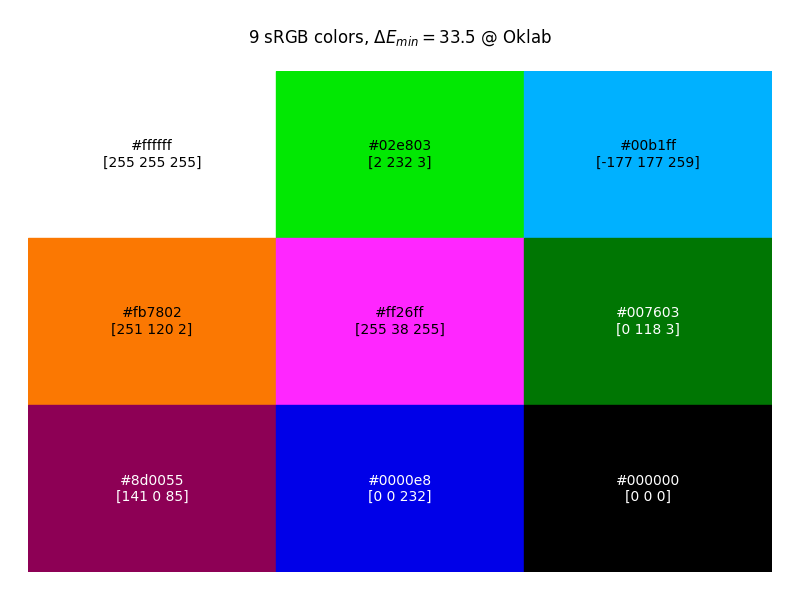
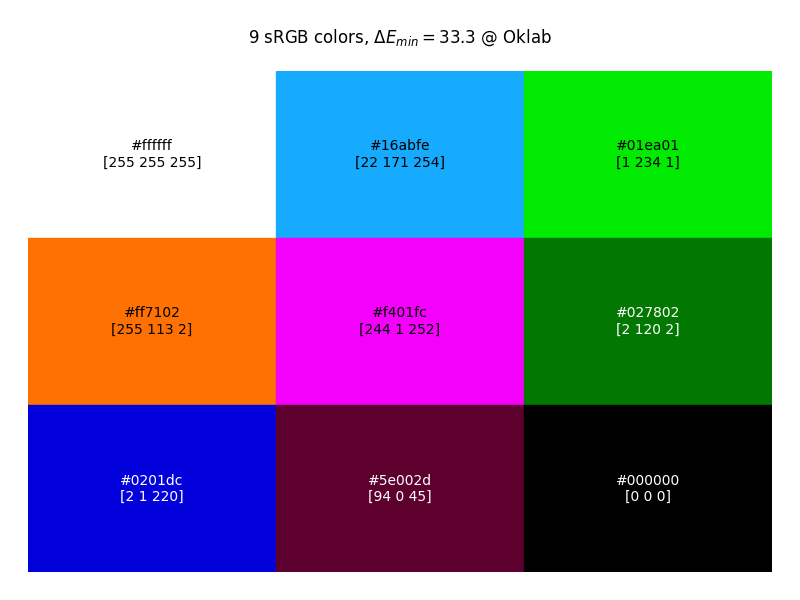
refactor(example): 更新示例代码并添加新用例
- 新增 use_case.py 文件，展示了如何手动设置颜色列表并应用于 matplotlib 图表

diff --git a/mdcolors.py b/mdcolors.py
@@ -14,7 +14,6 @@ import colour
 import alphashape
 import trimesh
 
-
 # Set Parameters for converting to/from CMYK icc profiles
 cdir = os.path.dirname(os.path.abspath(__file__))
 CMYK_PARAMS = {
@@ -25,8 +24,7 @@ CMYK_PARAMS = {
     # 'renderingIntent': ImageCms.Intent.ABSOLUTE_COLORIMETRIC,
     'flags': ImageCms.Flags.BLACKPOINTCOMPENSATION,
     # 'intermediate_space': 'ITU-R BT.2020',
-    'output_cmyk': True,    # Else output RGB, which might oversaturated.
-    # 'hull_type': 'concave',     # 'concave', 'convex'. Trimesh for concave hull, very slow.
+    'output_cmyk': True,  # Else output RGB, which might oversaturated.
 }
 CMYK_PARAMS.setdefault('intermediate_space', 'sRGB')
 if CMYK_PARAMS['intermediate_space'] == 'ITU-R BT.2020':
@@ -36,7 +34,6 @@ else:
 CMYK_PARAMS.setdefault('renderingIntent', ImageCms.Intent.PERCEPTUAL)
 CMYK_PARAMS.setdefault('flags', ImageCms.Flags.NONE)
 CMYK_PARAMS.setdefault('output_cmyk', False)
-CMYK_PARAMS.setdefault('hull_type', 'convex')
 
 # Set colourspace
 colour.set_domain_range_scale("1")
@@ -46,7 +43,7 @@ CAM_SPACES = [
     'CAM02LCD', 'CAM02SCD', 'CAM02UCS', 'CAM16LCD', 'CAM16SCD', 'CAM16UCS'
 ]
 UCS_SPACES = [
-    'CIE Lab', 'DIN99', 'DIN99b', 'DIN99c', 'DIN99d', 'ICaCb', 'Oklab', 'Jzazaz', 'ICtCp', *CAM_SPACES[-6:]
+    'CIE Lab', 'DIN99', 'DIN99b', 'DIN99c', 'DIN99d', 'ICaCb', 'Oklab', 'Jzazbz', 'ICtCp', *CAM_SPACES[-6:]
 ]
 # Set labels based on color space
 LABEL_DICT = {
@@ -74,7 +71,7 @@ LABEL_DICT = {
     'OSA UCS': ["L", "j", "g"],
     'ProLab': ["L", "a", "b"],
     'Yrg': ["Y", "r", "g"],
-    'Jzazaz': ["J_z", "a_z", "b_z"],
+    'Jzazbz': ["J_z", "a_z", "b_z"],
     'Izazbz': ["I_z", "a_z", "b_z"],
     'YCbCr': ["Y'", "Cb", "Cr"],
     'YcCbcCrc': ["Y'", "Cbc'", "Crc'"],
@@ -113,7 +110,7 @@ SIM_PARAMS = {
         't_tol': 0.00005,
         'skip': 1,
         'damping': 0.998
-    }
+    },
 }
 
 
@@ -270,7 +267,7 @@ def remove_duplicate_points(table, threshold=0.0001):
     return table[keep_mask]
 
 
-def get_boundary_hull(res=11, boundary='sRGB', workspace='CAM16UCS', hull_type='convex', show=False):
+def get_boundary_hull(res=11, boundary='sRGB', workspace='CAM16UCS', hull_type=None, show=False):
     """
     Generate a Delaunay triangulation of the boundary of the given color space in the given workspace.
     :param res: Grid resolution of each dimension.
@@ -292,12 +289,10 @@ def get_boundary_hull(res=11, boundary='sRGB', workspace='CAM16UCS', hull_type='
     table = auto_convert(sp, boundary, workspace)
     table = remove_duplicate_points(table, threshold=0.001)
     # validate_result(table, workspace, workspace, show=True)
-
     if boundary in ['CMYK', 'CMY']:
         table = auto_convert(auto_convert(table, workspace, boundary), boundary, workspace)
-        hull_type = CMYK_PARAMS['hull_type'] if hull_type == 'convex' else hull_type
 
-    if hull_type != 'convex':
+    if hull_type is not None and hull_type != 'convex':
         hull = alphashape.alphashape(table, alpha=res / 1.5)
     else:
         hull = Delaunay(table)
@@ -419,7 +414,7 @@ def deal_out_of_bounds(s, v, dt, **kwargs):
 def maximize_delta_e(
         num, p0=None, source='sRGB', uniform='CAM16UCS',
         dt=1E-4, t_end=1000, t_tol=1E-4, steps=1000, skip=10, damping=0.99,
-        seed=None):
+        seed=None, **kwargs):
     """
     Main function to maximize deltaE.
     :param num: Number of particles to simulate.
@@ -441,11 +436,12 @@ def maximize_delta_e(
                          f"Please use a uniform space in:\n {UCS_SPACES}")
 
     # Transform input color space bounds to uniform bounds
-    hull = get_boundary_hull(boundary=source, workspace=uniform)
+    hull_type = kwargs.get('hull_type', None)
+    hull = get_boundary_hull(boundary=source, workspace=uniform, hull_type=hull_type)
     # hull = None
 
     # kwargs for in_bounds function
-    kwarg = {'boundary': source, 'workspace': uniform, 'hull': hull}
+    bound_kwargs = {'boundary': source, 'workspace': uniform, 'hull': hull}
 
     # Deal with given initial points
     if p0 is None:
@@ -458,7 +454,7 @@ def maximize_delta_e(
     num_fixed = len(p0)
 
     # Initialize the positions and velocities of the colors points.
-    pos = init(num - p0.shape[0], in_bounds, seed=seed, **kwarg)
+    pos = init(num - p0.shape[0], in_bounds, seed=seed, **bound_kwargs)
     if p0.shape[0] > 0:
         pos = np.vstack([p0, pos])
     vel = np.zeros_like(pos, dtype=np.float32)
@@ -480,7 +476,7 @@ def maximize_delta_e(
         forces = compute_forces(pos, tree)
         forces[:num_fixed] = 0  # Fixed particles don't move
         new_pos, new_vel = update_positions(pos, vel, forces, step, damping=damping)
-        new_pos, new_vel = deal_out_of_bounds(new_pos, new_vel, step, **kwarg)
+        new_pos, new_vel = deal_out_of_bounds(new_pos, new_vel, step, **bound_kwargs)
 
         if i % skip == 0:
             # Update the KDTree
@@ -518,6 +514,7 @@ def maximize_delta_e(
     if source in ['CMY', 'CMYK'] and not CMYK_PARAMS['output_cmyk']:
         source = 'sRGB'
     colors = auto_convert(best_pos, uniform, source)
+    colors = np.clip(colors, 0, 1)
     # print(f"Max and Min values: {np.max(colors)}, {np.min(colors)}")
 
     return np.array(all_time), np.array(d_mins) * 100, np.array(colors), np.array(all_step)
@@ -607,45 +604,44 @@ def validate_result(points, source_space, target_space, hull=None, show=False):
     return de_min * 100
 
 
-def run(numbers, given_colors, color_space='sRGB', uniform_space='CAM16UCS', quality='medium', seed=None):
+def run(nums, given_colors, color_space='sRGB', uniform_space='CAM16UCS', quality='medium', seed=None, **kwargs):
     # Deal with default colors list
     if given_colors is None:
         given_colors = np.array([[1, 1, 1]])
     given_colors = np.atleast_2d(given_colors)
 
-    kwargs = SIM_PARAMS.get(quality, SIM_PARAMS['medium'])
+    kwargs.update(SIM_PARAMS.get(quality, SIM_PARAMS['medium']))
 
     # Execute the simulation
     times, dmin_list, points, _ = maximize_delta_e(
-        numbers, given_colors, color_space, uniform_space,
-        seed=seed,
-        **kwargs
+        nums, given_colors, color_space, uniform_space, seed=seed, **kwargs
     )
 
     # Convert the points to HEX format
     spoints = points
-    if color_space in ["CMYK", "CMY"] and CMYK_PARAMS['output_cmyk']:    # Convert CMYK to sRGB to generate HEX
+    if color_space in ["CMYK", "CMY"] and CMYK_PARAMS['output_cmyk']:  # Convert CMYK to sRGB to generate HEX
         spoints = auto_convert(spoints, color_space, "sRGB")
     hex_colors = colour.notation.RGB_to_HEX(np.clip(spoints, 0, 1))
 
     return hex_colors, dmin_list.max(), points, times, dmin_list
 
 
-def single_run(nums, given_colors=None, color_space='sRGB', uniform_space='CAM16UCS', quality="fast"):
+def single_run(nums, given_colors=None, color_space='sRGB', uniform_space='CAM16UCS', quality="fast", **kwargs):
     _color_space = color_space
     if color_space in ["CMYK", "CMY"] and not CMYK_PARAMS['output_cmyk']:
         _color_space = "sRGB"
     # Execute the simulation
     t0 = timer()
     hex_colors, dmin, points, times, dmin_list = run(
-        nums, given_colors, color_space, uniform_space, quality
+        nums, given_colors, color_space, uniform_space, quality, **kwargs
     )
     t1 = timer()
     print(f"Total time: {(t1 - t0) * 1000:.2f} ms")
     print(f"Best δE: {dmin:.2f}")
 
     # 可视化结果
-    plot_points(points, times, dmin_list, "Time", r"Minimum $\Delta E$", _color_space, uniform_space)
+    plot_points_and_line(points, times, dmin_list, "Time", r"Minimum $\Delta E$",
+                         _color_space, uniform_space, hull_type=kwargs.get('hull_type', None))
     real_dmin = validate_result(points, _color_space, uniform_space)
     plot_color_palette(hex_colors, points, color_space=color_space,
                        title=rf"{nums} {color_space} colors, $\Delta E_{{min}}={real_dmin:.1f}$ @ {uniform_space}")
@@ -656,7 +652,7 @@ def single_run(nums, given_colors=None, color_space='sRGB', uniform_space='CAM16
 
 
 def multi_run(nums, given_colors=None,
-              color_space='sRGB', unifrom_space='CAM16UCS', quality="fast", num_runs=20, show=True):
+              color_space='sRGB', unifrom_space='CAM16UCS', quality="fast", num_runs=20, show=True, **kwargs):
     _color_space = color_space
     if color_space in ["CMYK", "CMY"] and not CMYK_PARAMS['output_cmyk']:
         _color_space = "sRGB"
@@ -671,7 +667,7 @@ def multi_run(nums, given_colors=None,
     with ProcessPoolExecutor(max_workers=2) as executor:
         futures = {
             executor.submit(
-                run, nums, given_colors, color_space, unifrom_space, quality, seed=i
+                run, nums, given_colors, color_space, unifrom_space, quality, seed=i, **kwargs
             ): i for i in range(num_runs)
         }
         for future in as_completed(futures):
@@ -693,8 +689,8 @@ def multi_run(nums, given_colors=None,
     # 可视化结果
     if best_points is not None:
         if show:
-            plot_points(best_points, np.arange(len(dmins)), dmins,
-                        "Runs", r"$\Delta E_{min}$", _color_space, unifrom_space)
+            plot_points_and_line(best_points, np.arange(len(dmins)), dmins, "Runs", r"$\Delta E_{min}$",
+                                 _color_space, unifrom_space, hull_type=kwargs.get('hull_type', None))
             validate_result(best_points, _color_space, unifrom_space)
             plot_color_palette(
                 best_hexs, best_points, color_space=color_space,
@@ -705,7 +701,7 @@ def multi_run(nums, given_colors=None,
     return best_hexs, best_dmin
 
 
-def plot_points(a, x, y, xlabel="X", ylabel="Y", source_space='sRGB', target_space='CIE xyY'):
+def plot_points_and_line(a, x, y, xlabel="X", ylabel="Y", source_space='sRGB', target_space='CIE xyY', hull_type=None):
     colour.set_domain_range_scale("1")
     a = np.array(a)
 
@@ -718,7 +714,7 @@ def plot_points(a, x, y, xlabel="X", ylabel="Y", source_space='sRGB', target_spa
     show_colors = np.clip(show_colors, 0, 1)
 
     # Generate boundary hull
-    hull = get_boundary_hull(boundary=source_space, workspace=target_space)
+    hull = get_boundary_hull(boundary=source_space, workspace=target_space, hull_type=hull_type)
     if isinstance(hull, Delaunay):
         hull = trimesh.Trimesh(vertices=hull.points, faces=hull.convex_hull)
         hull.fix_normals()
@@ -808,7 +804,7 @@ def plot_color_palette(hex_colors, original, color_space='sRGB', title="Color Pa
 if __name__ == '__main__':
     ### Single function test.
     # print(100*auto_convert([0.95, 0.95, 0.95, 0], 'CMYK', 'CAM16UCS'))
-    get_boundary_hull(11, "sRGB", "CAM16UCS", hull_type='convex', show=True)
+    get_boundary_hull(11, "sRGB", "Oklab", hull_type='convex', show=True)
 
     ### Run the simulation.
     # single_run(9, [1, 1, 1], color_space='sRGB', quality='medium')

diff --git a/example/use_case.py b/example/use_case.py
@@ -1,0 +1,36 @@
+import matplotlib.pyplot as plt
+import numpy as np
+
+# Parameter settings
+n_line = 10
+x = np.linspace(0, 10, 100)
+y = [np.sin(x + 2 * np.pi * i / n_line) for i in range(n_line)]
+
+# Manually set color list
+colors = ['#2eabfe', '#04b29a', '#fe992c', '#aefe06', '#fe0569', '#555800', '#084a5b', '#8e00fd', '#550001', '#00004c']   # DIN99d
+# colors = ['#de9e02', '#ff86e7', '#13aec8', '#5afe07', '#5c53fe', '#0d8403', '#ec0104', '#520005', '#001e00', '#01005d']   # CAM16UCS
+
+# Create figure and subplots
+plt.figure(figsize=(12, 4))  # Set figure size
+
+# Left subplot: default color sequence
+plt.subplot(1, 2, 1)  # 1 row, 2 columns, first subplot
+for i in range(n_line):
+    plt.plot(x, y[i], label=f'Line {i + 1}', lw=2)
+plt.title('Default Colors')
+plt.xlabel('X-axis')
+plt.ylabel('Y-axis')
+plt.legend()
+
+# Right subplot: manually set color list
+plt.subplot(1, 2, 2)  # 1 row, 2 columns, second subplot
+for i in range(n_line):
+    plt.plot(x, y[i], color=colors[i], label=f'Line {i + 1}', lw=2)
+plt.title('Max Distance Colors')
+plt.xlabel('X-axis')
+plt.ylabel('Y-axis')
+plt.legend()
+
+# Display the figure
+plt.tight_layout()  # Automatically adjust subplot spacing
+plt.show()

diff --git a/example/examples_2.py b/example/examples_2.py
@@ -2,8 +2,16 @@ from mdcolors import multi_run
 
 if __name__ == '__main__':
     # Run more times and choose the best one
-    multi_run(9, num_runs=20)
+    # multi_run(9, num_runs=20)
+
+    # Constrained in CMYK space
+    multi_run(9, color_space='CMYK')
 
     # Combine with quality parameters
     # multi_run(9, num_runs=20, quality='medium')
+
+    # Using other Uniform-Color-Space
+    # multi_run(9, unifrom_space='DIN99d', num_runs=20)
+    # multi_run(9, unifrom_space='CIE Lab', num_runs=20)
+    # multi_run(9, unifrom_space='Oklab', num_runs=20)
 

diff --git a/results/sRGB_x_Japan2001Coated_CAM16.py b/results/sRGB_x_Japan2001Coated_CAM16.py
@@ -8,6 +8,7 @@ if __name__ == '__main__':
     for n in np.arange(2, 52, 1):
         csv_file = "sRGB_x_Japan2001Coated_CAM16.csv"
         hexs, de = multi_run(n, [1, 1, 1], color_space='CMYK', quality='medium', num_runs=32, show=False)
+        hexs = [f"'{h}'" for h in hexs]
         result.append([n, de, hexs])
 
         with open(csv_file, "w", newline='') as f:

diff --git a/results/sRGB_CAM16.py b/results/sRGB_CAM16.py
@@ -8,6 +8,7 @@ if __name__ == '__main__':
     for n in np.arange(2, 52, 1):
         csv_file = "sRGB_CAM16.csv"
         hexs, de = multi_run(n, [1, 1, 1], color_space='sRGB', quality='medium', num_runs=32, show=False)
+        hexs = [f"'{h}'" for h in hexs]
         result.append([n, de, hexs])
 
         with open(csv_file, "w", newline='') as f:

diff --git a/example/examples.py b/example/examples.py
@@ -11,6 +11,7 @@ single_run(9)
 
 # Using DIN99d as Uniform-Color-Space
 # single_run(9, uniform_space='DIN99d')
+# single_run(9, uniform_space='Oklab', hull_type='concave')  # Use concave hull for better results, but much slower
 
 # Spend more time on higher quality, 'fast'->'medium'->'slow'
 # single_run(9, quality='medium')

diff --git a/README_en.md b/README_en.md
@@ -6,7 +6,9 @@
 ## 1. Functionality
 In scientific plotting and data visualization, it is necessary to ensure that the visual differences between different colors are sufficiently large. To achieve this, this program was developed to generate an optimal color palette. The main function is to generate a list of colors based on a given number, ensuring that the differences between colors are maximized.
 
-Precomputed color lists with maximized color differences for each quantity between 2 and 50 can be downloaded directly by clicking here: [Colors.xlsm](results/Colors.xlsm)
+Pre-calculated color list of maximized color difference for each quantity between 2-51, download directly here: 
+
+[sRGB](results/sRGB_CAM16.csv) | [sRGB inside CMYK](results/sRGB_x_Japan2001Coated_CAM16.csv) | [Colored Excel Spreadsheet](results/Colors.xlsm)
 
 -----------
 ## 2. Basic Principles
@@ -52,7 +54,7 @@ single_run(9, color_space='CMYK')
 <img src="example/color_patch_CMYK.png" width="500"/>
 </p>
 
->Note: Since the conversion between CMYK and RGB is not uniquely corresponding, the colors converted back to CMYK will have some differences, so the color difference uniformity of the generated colors will be worse than RGB colors. Using a concave hull instead of a convex hull to model the boundary may improve uniformity, but the program speed will be more than 5 times slower, which is usually not necessary. If needed, add a line before running: `CMYK_PARAMS['hull_type'] = 'concave'`
+>Note: Since the conversion between CMYK and RGB is not uniquely corresponding, the colors converted back to CMYK will have some differences, so the color difference uniformity of the generated colors will be worse than RGB colors. Using a concave hull instead of a convex hull to model the boundary may improve uniformity, but the program speed will be more than 5 times slower, which is usually not necessary. If needed, add `hull_type='concave'` in the parameter.
 
 #### 3.2.2. Use Other Uniform Color Spaces, Such as DIN99d, Oklab, etc.
 
@@ -63,6 +65,10 @@ single_run(9, uniform_space='DIN99d')
 ```
 <p align="center">
 <img src="example/color_patch_sRGB_in_DIN99d.png" width="500"/>
+</p>
+
+>Note: When using Oklab or CIELab as a uniform color space, the boundaries of the RGB color gamut are generally non-convex, and this program uses Delaunay triangulation to accelerate the judgment of the inside and outside of the color gamut by default, which will lead to a large error, at this time, you can add `hull_type='concave'` in the parameter to obtain more accurate results.
+<p align="center">
 <img src="example/color_patch_sRGB_in_Oklab.png" width="500"/>
 <img src="example/color_patch_sRGB_in_CIELab.png" width="500"/>
 </p>

diff --git a/README.md b/README.md
@@ -6,7 +6,9 @@
 ## 1. 功能
 在科学绘图和数据可视化中，需要让不同颜色之间的视觉差异足够大，为此开发了此程序来生成最佳的颜色色板。主要功能是根据给定数量生成颜色列表，确保颜色之间差异最大化。
 
-已经计算好的，2-50之间每个数量的最大化色差的颜色列表，直接点此下载：[Colors.xlsm](results/Colors.xlsm)
+已计算好的，2-51之间每个数量的最大化色差的颜色列表，直接点此下载：
+
+[sRGB](results/sRGB_CAM16.csv) | [sRGB inside CMYK](results/sRGB_x_Japan2001Coated_CAM16.csv) | [带着色的Excel表格](results/Colors.xlsm)
 
 -----------
 ## 2. 基本原理
@@ -52,7 +54,7 @@ single_run(9, color_space='CMYK')
 <img src="example/color_patch_CMYK.png" width="500"/>
 </p>
 
->注：由于CMYK与RGB之间的转化不是唯一对应的，RGB转换回CMYK之后的色彩会有一定差异，因此生成的颜色之间的色差均匀性会差于RGB色彩。使用凹包而不是凸包来对边界建模，可能对均匀性有一定提升，但程序速度会慢5倍以上，通常没有这个必要。如有需要，在run之前加入一行：`CMYK_PARAMS['hull_type'] = 'concave'`
+>注：由于CMYK与RGB之间的转化不是唯一对应的，RGB转换回CMYK之后的色彩会有一定差异，因此生成的颜色之间的色差均匀性会差于RGB色彩。使用凹包而不是凸包来对边界建模，可能对均匀性有一定提升，但程序速度会慢5倍以上，通常没有这个必要。如有需要，增加一项参数`'hull_type'='concave'`
 
 #### 3.2.2. 使用其他的均匀色彩空间，比如DIN99d，Oklab等
 
@@ -63,6 +65,10 @@ single_run(9, uniform_space='DIN99d')
 ```
 <p align="center">
 <img src="example/color_patch_sRGB_in_DIN99d.png" width="500"/>
+</p>
+
+>注：使用 Oklab 或 CIELab 作为均匀色彩空间时，RGB色域在其中的边界一般是非凸的，本程序默认借助Delaunay三角剖分来加速判断色域内外在此时会导致较大误差，此时可在参数中增加`'hull_type'='concave'`来获取更准确结果。
+<p align="center">
 <img src="example/color_patch_sRGB_in_Oklab.png" width="500"/>
 <img src="example/color_patch_sRGB_in_CIELab.png" width="500"/>
 </p>
